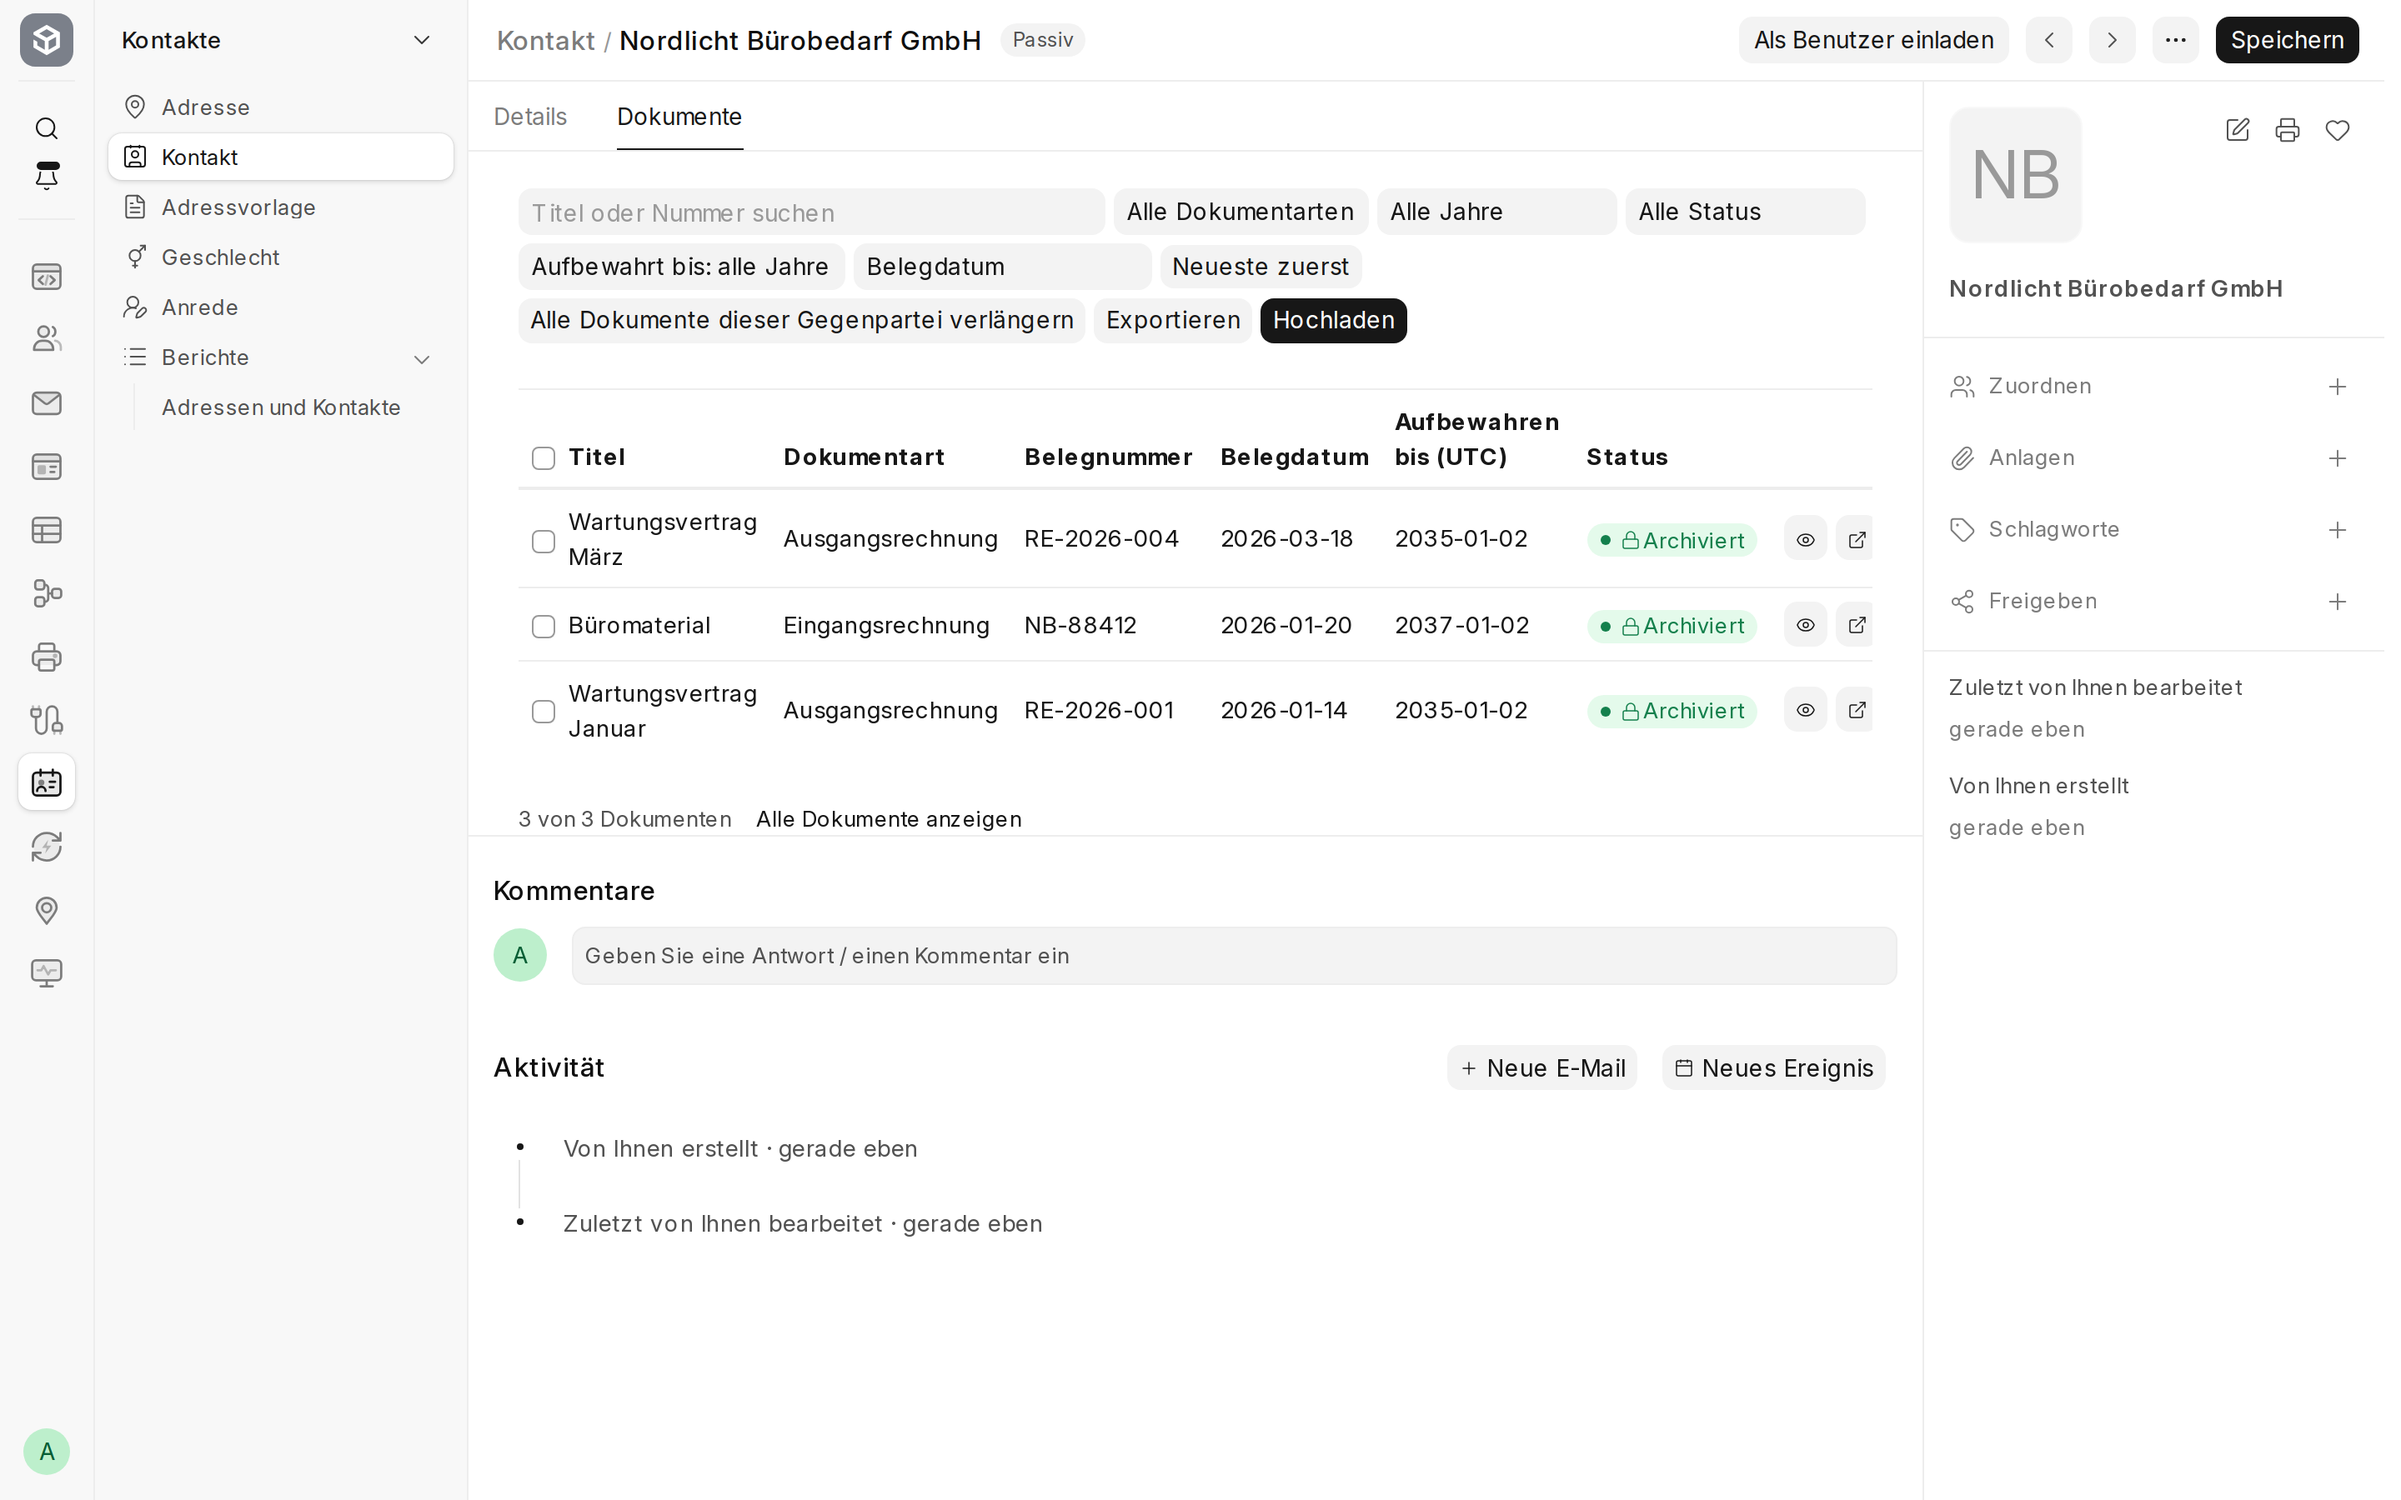
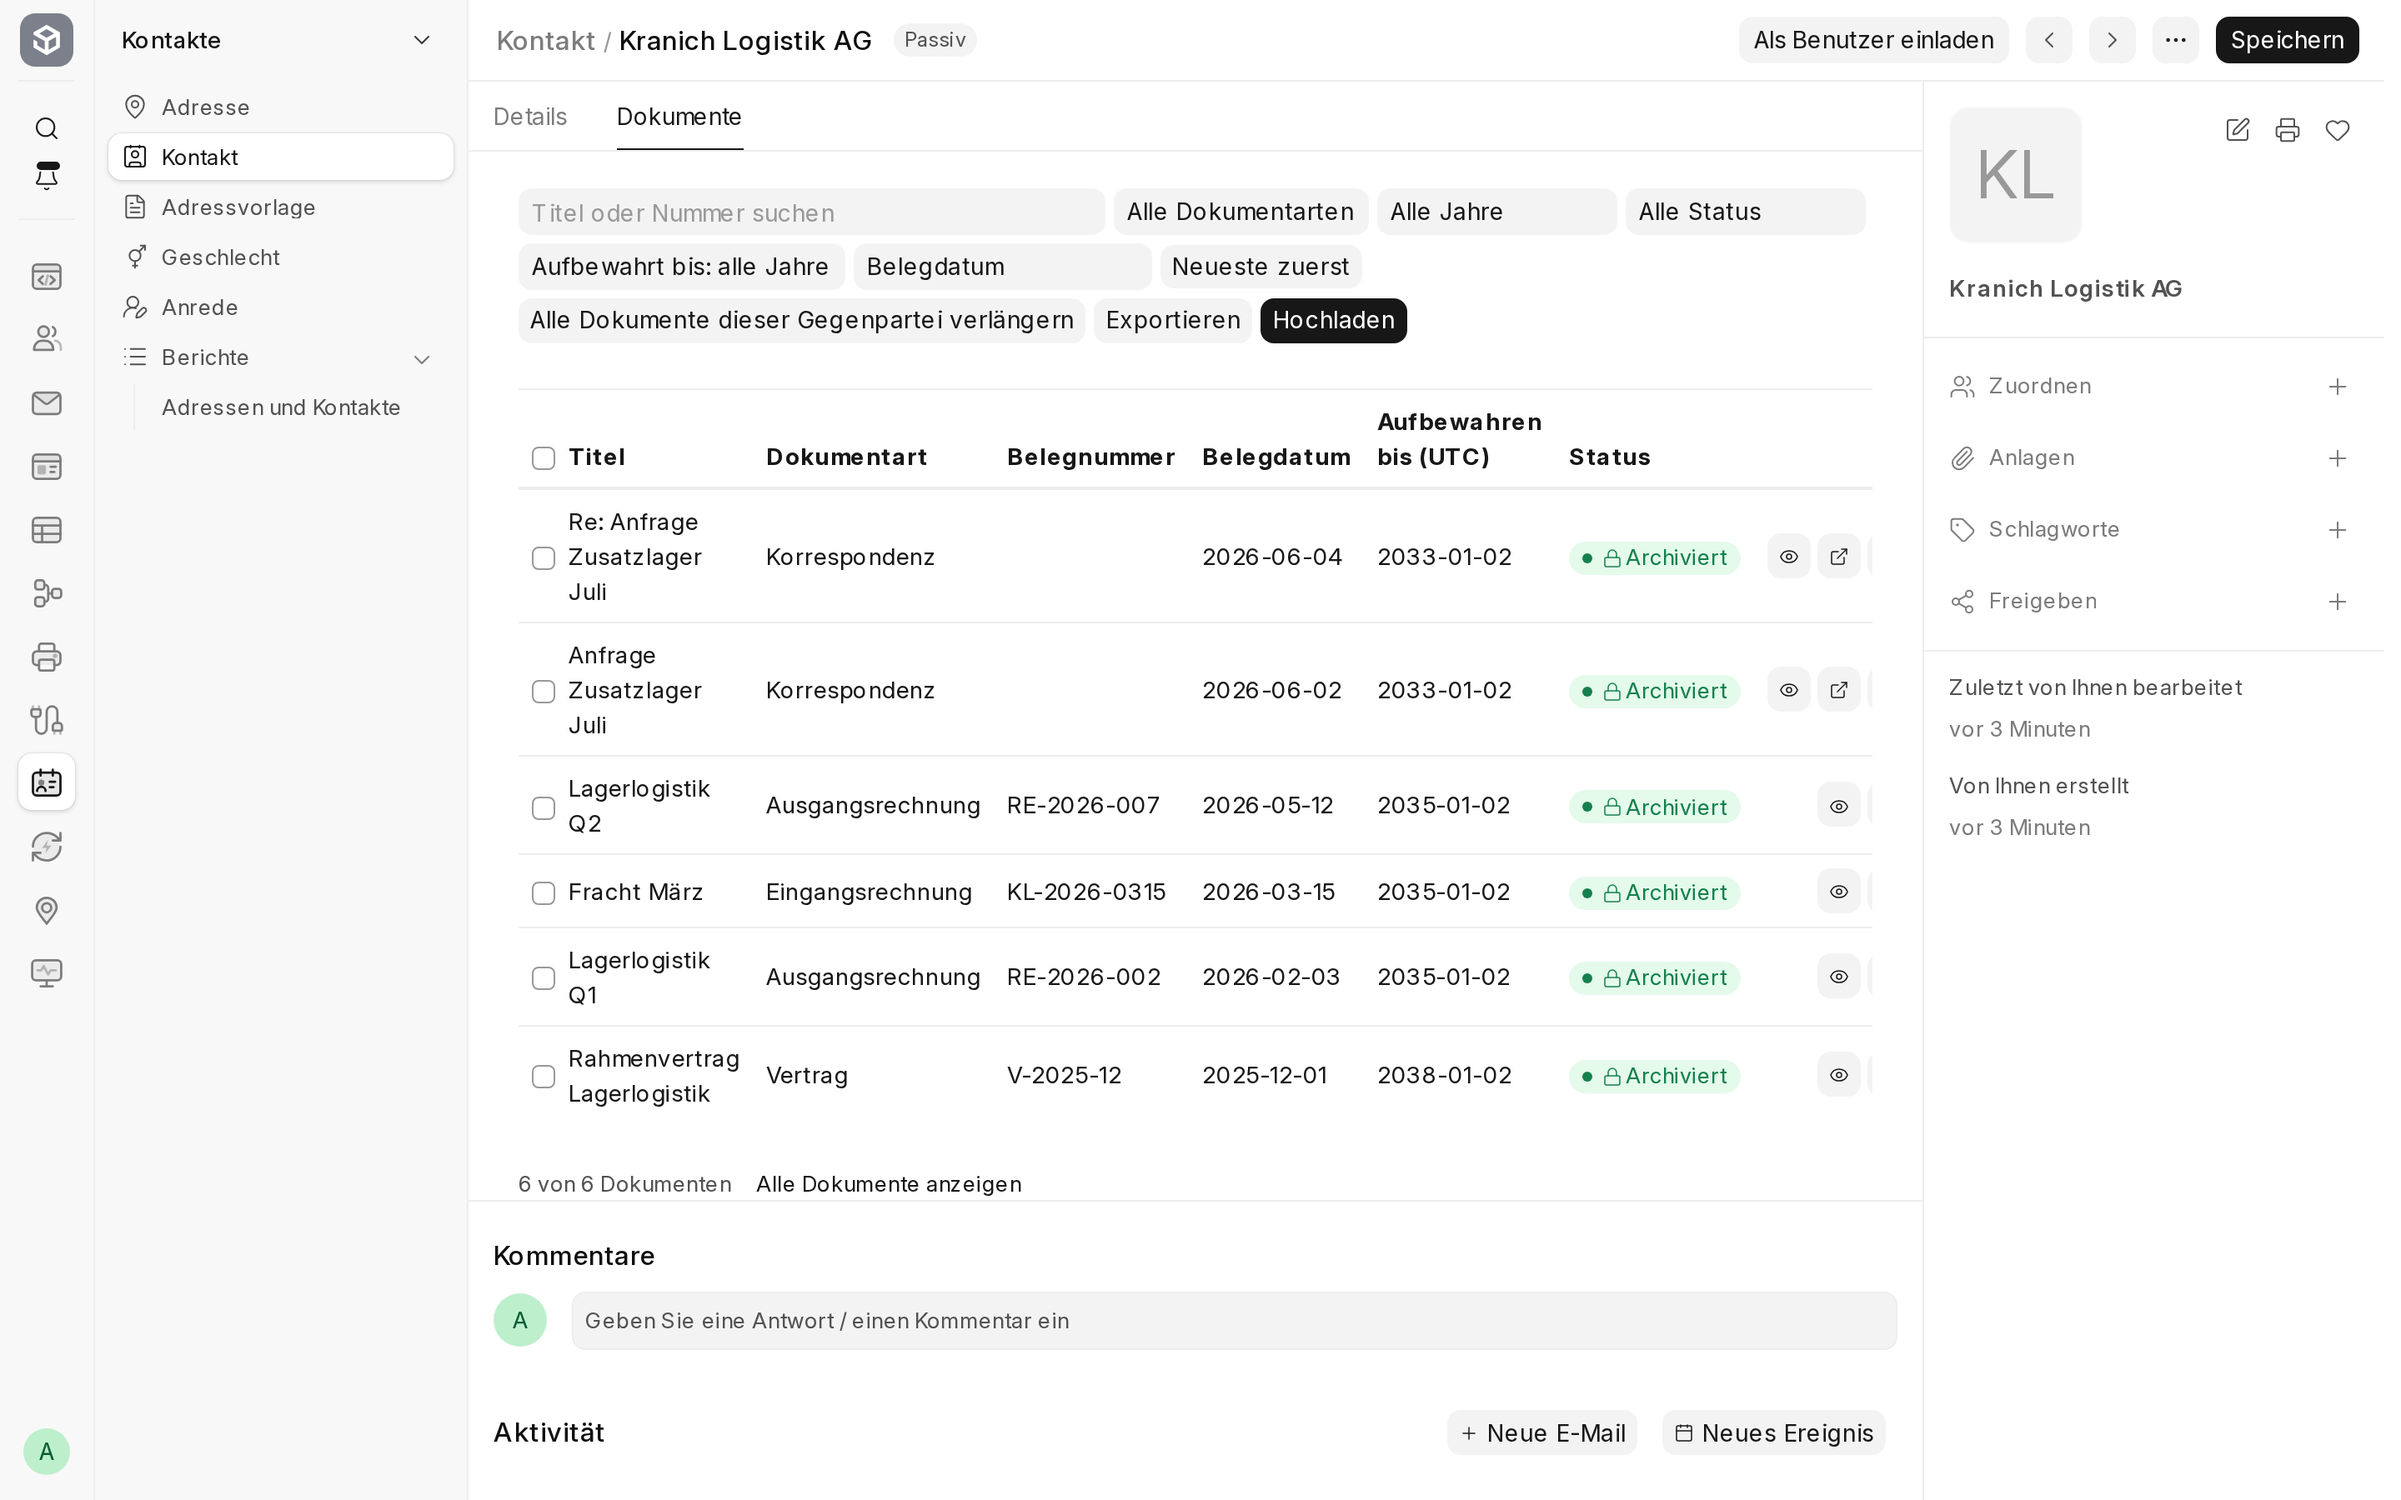
docs: retake counterparty panel and thread screenshots

diff --git a/scripts/screenshots.py b/scripts/screenshots.py
@@ -7,6 +7,7 @@ bench --site <site> docarchive-demo. Settings come from the environment:
 - DOCARCHIVE_USER: default Administrator
 - DOCARCHIVE_PASSWORD: required
 - DOCARCHIVE_SHOTS: output folder, default docs/images
+- DOCARCHIVE_CONTACT: Contact name for the counterparty panel, default Nordlicht Bürobedarf GmbH
 
 Pass screen names (e.g. thread audit-log) to take only those.
 """
@@ -23,7 +24,7 @@ from playwright.sync_api import sync_playwright
 BASE = os.environ.get("DOCARCHIVE_BASE", "http://localhost:8000")
 OUT = Path(os.environ.get("DOCARCHIVE_SHOTS", "docs/images"))
 VIEWPORT = {"width": 1440, "height": 900}
-CONTACT = "Nordlicht Bürobedarf GmbH"
+CONTACT = os.environ.get("DOCARCHIVE_CONTACT", "Nordlicht Bürobedarf GmbH")
 HOLD_REASON = "Betriebsprüfung 2026, Anforderung vom 12.10."
 DOCUMENTS = {
 	"held": {"legal_hold": 1},
